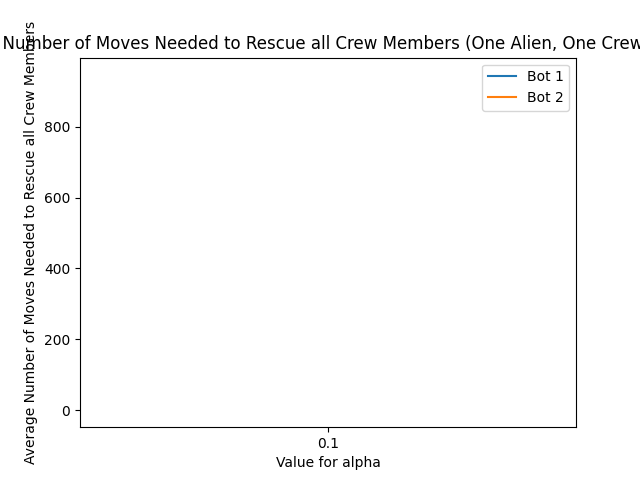
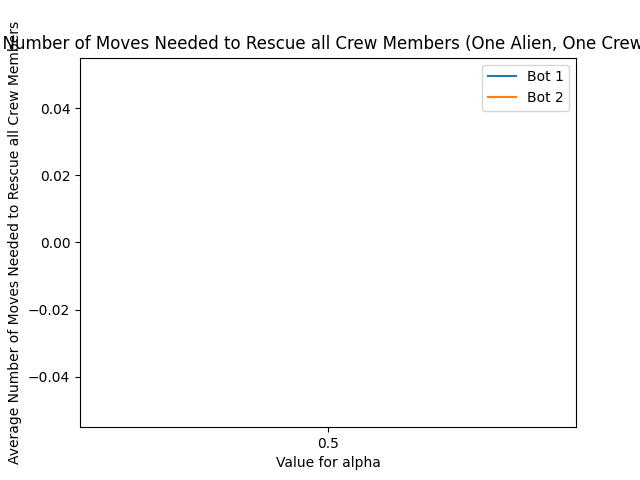
beep

Changed region(s): [[0.0, 0.0312, 0.125, 0.9688], [0.5, 0.9062, 0.5312, 0.9375], [0.0938, 0.8438, 0.125, 0.875]]

diff --git a/bot.py b/bot.py
@@ -91,28 +91,28 @@ class Bot:
         cur_row = self.row
         cur_col = self.col
 
-        if cur_row > 0:
+        if cur_row > 0 and self.ship.ship[cur_row-1][cur_col].is_open():
             up_crew_prob = self.ship.get_crew_probs()[cur_row-1][cur_col]
             up_alien_prob = self.ship.get_alien_probs()[cur_row-1][cur_col]
         else:
             up_crew_prob = -1
             up_alien_prob = 100
         
-        if cur_row < self.ship.D - 1:
+        if cur_row < self.ship.D - 1 and self.ship.ship[cur_row+1][cur_col].is_open():
             down_crew_prob = self.ship.get_crew_probs()[cur_row+1][cur_col]
             down_alien_prob = self.ship.get_alien_probs()[cur_row+1][cur_col]
         else:
             down_crew_prob = -1
             down_alien_prob = 100
 
-        if cur_col > 0:
+        if cur_col > 0 and self.ship.ship[cur_row][cur_col-1].is_open():
             left_crew_prob = self.ship.get_crew_probs()[cur_row][cur_col-1]
             left_alien_prob = self.ship.get_alien_probs()[cur_row][cur_col-1]
         else:
             left_crew_prob = -1
             left_alien_prob = 100
         
-        if cur_col < self.ship.D-1:
+        if cur_col < self.ship.D-1 and self.ship.ship[cur_row][cur_col+1].is_open():
             right_crew_prob = self.ship.get_crew_probs()[cur_row][cur_col+1]
             right_alien_prob = self.ship.get_alien_probs()[cur_row][cur_col+1]
         else:
@@ -143,37 +143,44 @@ class Bot:
             self.move_down()
         else:
             pass  # Do nothing
+
     def bot2_move(self):
         # Replace this to pick adjacent square w/ highest prob
-    
+
+        prob_array = self.ship.get_crew_probs()
         next_move = 10
         cur_row = self.row
         cur_col = self.col
 
+        up_crew_prob = 0
+        down_crew_prob = 0
+        left_crew_prob = 0
+        right_crew_prob = 0
+
         if cur_row > 0:
-            up_crew_prob = self.ship.get_crew_probs()[cur_row-1][cur_col]
-            up_alien_prob = self.ship.get_alien_probs()[cur_row-1][cur_col]
+            up_crew_prob = prob_array[cur_row-1,cur_col]
+            up_alien_prob = self.ship.get_alien_probs()[cur_row-1,cur_col]
         else:
             up_crew_prob = -1
             up_alien_prob = 100
         
         if cur_row < self.ship.D - 1:
-            down_crew_prob = self.ship.get_crew_probs()[cur_row+1][cur_col]
-            down_alien_prob = self.ship.get_alien_probs()[cur_row+1][cur_col]
+            down_crew_prob = prob_array[cur_row+1,cur_col]
+            down_alien_prob = self.ship.get_alien_probs()[cur_row+1,cur_col]
         else:
             down_crew_prob = -1
             down_alien_prob = 100
 
         if cur_col > 0:
-            left_crew_prob = self.ship.get_crew_probs()[cur_row][cur_col-1]
-            left_alien_prob = self.ship.get_alien_probs()[cur_row][cur_col-1]
+            left_crew_prob = prob_array[cur_row,cur_col-1]
+            left_alien_prob = self.ship.get_alien_probs()[cur_row,cur_col-1]
         else:
             left_crew_prob = -1
             left_alien_prob = 100
         
         if cur_col < self.ship.D-1:
-            right_crew_prob = self.ship.get_crew_probs()[cur_row][cur_col+1]
-            right_alien_prob = self.ship.get_alien_probs()[cur_row][cur_col+1]
+            right_crew_prob = prob_array[cur_row,cur_col+1]
+            right_alien_prob = self.ship.get_alien_probs()[cur_row,cur_col+1]
         else:
             right_crew_prob = -1
             right_alien_prob = 100
@@ -183,6 +190,7 @@ class Bot:
         alien_probs = [left_alien_prob, right_alien_prob, up_alien_prob, down_alien_prob]
 
         max_idx = crew_probs.index(max(crew_probs))
+
         next_move = max_idx
         if next_move == 0:
             self.move_left()

diff --git a/ship.py b/ship.py
@@ -269,7 +269,6 @@ class Ship:
                 if self.ship[start_i][start_j].is_open():
                     start_cells.append(self.ship[start_i][start_j])
 
-        print(len(start_cells))
         self.num_open_cells = len(start_cells)
         for i in range(0, len(start_cells)):
             print(i)
@@ -332,15 +331,10 @@ class Ship:
         mask = np.asarray([list(map(mask_func, row)) for row in self.ship])
 
     
-        print(mask)
-        print(p)
         x,y = self.get_det_sq_indicies()
         mask[x,y] = False
-        print(mask)
 
         self.alien_probs[mask] = p
-        print("here")
-        print(np.sum(self.alien_probs))
 
 
 
@@ -419,8 +413,6 @@ class Ship:
         sum_array = copy.deepcopy(self.crew_probs)
         sum_array = np.multiply(sum_array, probs)
         sum = np.sum(sum_array)
-        print(sum)
-
         #Numerator
         self.crew_probs = np.multiply(self.crew_probs, probs)
 

diff --git a/main.py b/main.py
@@ -37,6 +37,8 @@ def experiment1(k, alphas):
                     shp.print_ship()
                     shp.distances_from_crew()
                     shp.init_crew_prob_one()
+
+                    print(shp.get_crew_probs())
                     shp.init_alien_prob_one()
                     print("Calculated distances")
 
@@ -45,7 +47,11 @@ def experiment1(k, alphas):
                     T = 0
                     flag = True
                     while flag:
-                        bot.bot1_move()
+                        if T > 2:
+                            break
+                        bot.bot2_move()
+                        shp.print_ship()
+                        print()
                         i = bot.row
                         j = bot.col
 
@@ -361,4 +367,4 @@ def main(k):
 
 
 if __name__ == "__main__":
-    experiment1(1, [0.1])
+    experiment1(1, [0.5])
